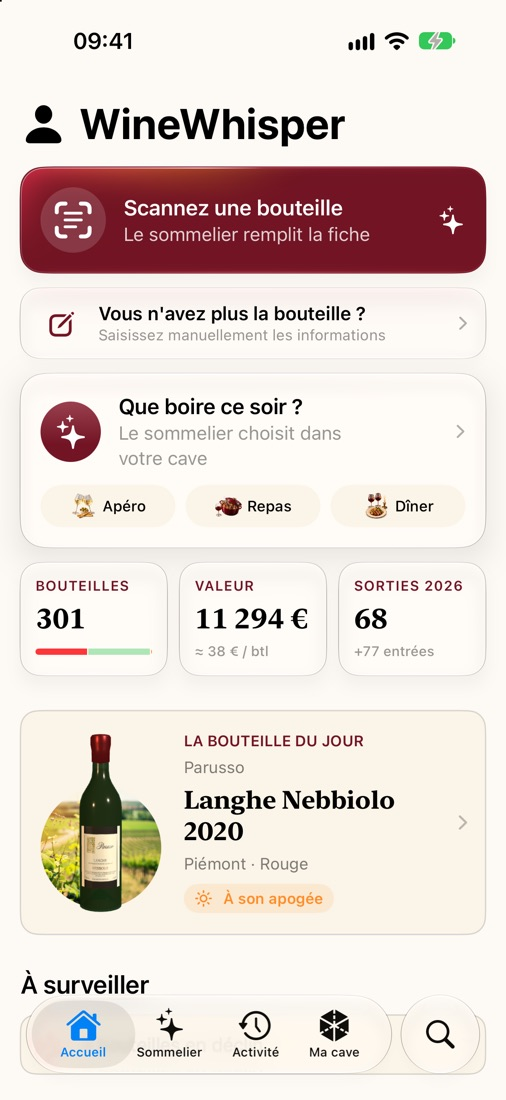
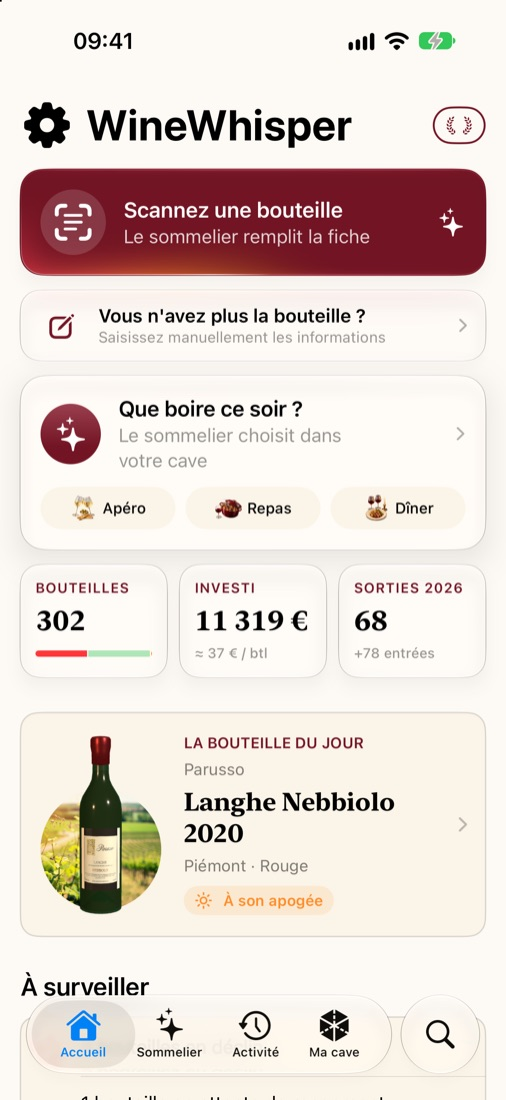
Add files via upload

diff --git a/index.html b/index.html
@@ -186,28 +186,6 @@
     .points strong { display: block; }
     .points span { color: var(--muted); }
 
-    /* Illustration de la cave : un emplacement s'allume. */
-    .rack {
-        display: grid;
-        grid-template-columns: repeat(9, 1fr);
-        gap: 7px;
-        max-width: 300px;
-        margin: 36px 0 0;
-        padding: 16px;
-        border-radius: 16px;
-        background: var(--surface);
-        border: 1px solid var(--line);
-    }
-    .rack i {
-        aspect-ratio: 1;
-        border-radius: 50%;
-        background: radial-gradient(circle at 35% 30%, #8a3646, #3d0d16);
-    }
-    .rack i.white { background: radial-gradient(circle at 35% 30%, #e8d9a0, #9c8a4a); }
-    .rack i.empty { background: transparent; border: 1px dashed var(--line); }
-    .rack i.lit { box-shadow: 0 0 0 3px var(--background), 0 0 0 5px var(--accent); animation: pulse 2.4s ease-in-out infinite; }
-    @keyframes pulse { 50% { box-shadow: 0 0 0 3px var(--background), 0 0 0 5px var(--accent), 0 0 22px 6px var(--accent); } }
-
     /* Sommelier : les occasions */
     .sommelier-head { text-align: center; max-width: 720px; margin: 0 auto 56px; }
     .occasions { display: grid; grid-template-columns: repeat(6, 1fr); gap: 16px; margin-bottom: 72px; }
@@ -272,6 +250,51 @@
     .phones.guide figcaption { margin-top: 14px; font-size: 0.9em; color: var(--muted); font-weight: 600; }
     .path { font-size: 0.9em; color: var(--text); font-weight: 600; }
 
+    /* Grand Cru : pastille sur les fonctions réservées, comparatif et prix. */
+    .tag {
+        display: inline-block;
+        margin-left: 6px;
+        padding: 2px 9px;
+        border-radius: 999px;
+        border: 1px solid var(--accent);
+        color: var(--accent);
+        font: 600 0.68em/1.5 var(--sans);
+        letter-spacing: 0.08em;
+        text-transform: uppercase;
+        vertical-align: 0.15em;
+    }
+    /* Deux offres, puis la capture de l'écran Grand Cru ; elle passe dessous quand la place manque. */
+    .offers { display: grid; grid-template-columns: 1fr 1fr 280px; gap: 24px; margin-top: 48px; }
+    .offers .phone { width: 100%; align-self: center; }
+    @media (max-width: 900px) {
+        .offers { grid-template-columns: 1fr 1fr; }
+        .offers .phone { grid-column: 1 / -1; width: min(280px, 100%); margin-top: 24px; }
+    }
+    .offer {
+        background: var(--surface);
+        border: 1px solid var(--line);
+        border-radius: 24px;
+        padding: 32px 30px;
+    }
+    .offer.premium { border: 2px solid var(--accent); box-shadow: var(--shadow); }
+    .offer h3 { font-size: 1.5em; }
+    .offer .price { color: var(--muted); margin: 0 0 22px; }
+    .offer .points { margin-top: 0; gap: 14px; }
+    .laurel { display: flex; align-items: center; gap: 8px; color: var(--accent); }
+    .laurel small { font: 600 0.62em/1 var(--sans); letter-spacing: 0.18em; display: block; }
+    .plans { display: grid; grid-template-columns: repeat(3, 1fr); gap: 16px; margin-top: 24px; }
+    .plan {
+        background: var(--surface);
+        border: 1px solid var(--line);
+        border-radius: 18px;
+        padding: 20px 16px;
+        text-align: center;
+    }
+    .plan strong { display: block; font: 600 1.6em/1.2 var(--serif); margin: 4px 0; }
+    .plan span { color: var(--muted); font-size: 0.88em; }
+    .plan.best { border-color: var(--accent); }
+    .fine { color: var(--muted); font-size: 0.85em; text-align: center; max-width: 720px; margin: 28px auto 0; }
+
     /* FAQ */
     .faq { max-width: 760px; margin: 40px auto 0; }
     details { border-bottom: 1px solid var(--line); padding: 18px 0; }
@@ -292,7 +315,6 @@
     @media (prefers-reduced-motion: reduce) {
         html { scroll-behavior: auto; }
         .js .reveal { opacity: 1; transform: none; transition: none; }
-        .rack i.lit { animation: none; }
     }
 
     @media (max-width: 900px) {
@@ -304,7 +326,7 @@
         .hero { padding: 48px 0 72px; }
         .hero .wrap, .feature { grid-template-columns: 1fr; gap: 48px; }
         .feature.reverse > :first-child { order: 0; }
-        .cards { grid-template-columns: 1fr; }
+        .cards, .offers, .plans { grid-template-columns: 1fr; }
         .phones { gap: 14px; }
         .phones .phone { border-radius: 30px; padding: 7px; }
         .phones .phone .screen { border-radius: 24px; }
@@ -325,6 +347,7 @@
             <li><a href="#cave">Cave 3D</a></li>
             <li><a href="#sommelier">Sommelier</a></li>
             <li><a href="#scan">Scan</a></li>
+            <li><a href="#grand-cru">Grand Cru</a></li>
             <li><a href="#prise-en-main">Prise en main</a></li>
             <li><a href="#faq">Questions</a></li>
         </ul>
@@ -346,7 +369,7 @@
                         <svg viewBox="0 0 24 24" aria-hidden="true"><path d="M16.4 12.6c0-2.6 2.1-3.8 2.2-3.9-1.2-1.8-3.1-2-3.8-2-1.6-.2-3.1.9-3.9.9-.8 0-2-.9-3.4-.9-1.7 0-3.3 1-4.2 2.6-1.8 3.1-.5 7.7 1.3 10.2.9 1.2 1.9 2.6 3.2 2.6 1.3-.1 1.8-.8 3.3-.8s2 .8 3.4.8c1.4 0 2.3-1.3 3.1-2.5 1-1.4 1.4-2.8 1.4-2.9 0 0-2.6-1-2.6-4.1zM13.9 4.9c.7-.9 1.2-2 1.1-3.2-1 0-2.3.7-3 1.6-.7.8-1.2 2-1.1 3.1 1.1.1 2.3-.6 3-1.5z"/></svg>
                         Bientôt sur l'App Store
                     </span>
-                    <small>iPhone · iOS 27 · Sans compte, sans publicité</small>
+                    <small>iPhone · iOS 27 · Gratuit, sans compte, sans publicité · <a href="#grand-cru">Grand Cru</a> en option</small>
                 </div>
             </div>
             <div class="reveal">
@@ -370,13 +393,8 @@
                 <ul class="points">
                     <li><strong>Retrouvez une bouteille en un geste.</strong><span>Depuis la fiche d'un vin, touchez « Voir dans la cave » : son emplacement s'allume.</span></li>
                     <li><strong>Rangez sans réfléchir.</strong><span>Les nouvelles bouteilles attendent dans un sas. WineWhisper propose la meilleure place, à côté du même millésime, du même vin ou du même domaine, et vous la posez d'un toucher.</span></li>
-                    <li><strong>Plusieurs caves.</strong><span>Une cave de service, une cave de garde, un casier chez des amis : chacune a sa forme et son contenu.</span></li>
+                    <li><strong>Plusieurs caves.<span class="tag">Grand Cru</span></strong><span>Une cave de service, une cave de garde, un casier chez des amis : chacune a sa forme et son contenu. La version gratuite range jusqu'à 24 bouteilles dans une cave.</span></li>
                 </ul>
-                <div class="rack" aria-hidden="true">
-                    <i></i><i></i><i class="white"></i><i></i><i></i><i class="white"></i><i></i><i></i><i></i>
-                    <i class="white"></i><i></i><i></i><i></i><i class="lit"></i><i></i><i class="white"></i><i></i><i class="empty"></i>
-                    <i></i><i class="white"></i><i></i><i class="empty"></i><i></i><i></i><i class="empty"></i><i class="empty"></i><i class="empty"></i>
-                </div>
             </div>
             <div class="phones reveal">
                 <div class="phone">
@@ -495,7 +513,7 @@
                 <h2>Votre cave en un coup d'œil</h2>
                 <ul class="points">
                     <li><strong>Analyse</strong><span>La répartition par couleur, par région et par phase de garde.</span></li>
-                    <li><strong>Finances</strong><span>La valeur de la cave au prix d'achat, et celle des bouteilles à ouvrir avant qu'elles perdent leur intérêt. La fiabilité du chiffre est indiquée.</span></li>
+                    <li><strong>Finances<span class="tag">Grand Cru</span></strong><span>Le montant investi et vos achats mois par mois, d'après vos prix d'achat, et la valeur des bouteilles à ouvrir avant qu'elles perdent leur intérêt. La fiabilité du chiffre est indiquée.</span></li>
                     <li><strong>Activité</strong><span>Les entrées et les sorties, mois après mois, et l'historique de chaque bouteille.</span></li>
                 </ul>
             </div>
@@ -617,8 +635,54 @@
         </div>
     </section>
 
+    <!-- Grand Cru -->
+    <section id="grand-cru" class="alt">
+        <div class="wrap">
+            <div class="center reveal">
+                <p class="eyebrow">WineWhisper Grand Cru</p>
+                <h2>Le sommelier et la cave 3D, sans limite</h2>
+                <p class="lead">WineWhisper est gratuit, et votre liste de vins n'a pas de limite. Grand Cru lève les plafonds de l'IA et de la cave 3D.</p>
+            </div>
+            <div class="offers reveal">
+                <div class="offer">
+                    <h3>Gratuit</h3>
+                    <p class="price">Pour découvrir, et pour toujours</p>
+                    <ul class="points">
+                        <li><strong>Une liste de vins illimitée</strong><span>Fiches, saisie manuelle complète (cépages, garde, prix, notes), historique et statistiques.</span></li>
+                        <li><strong>10 scans d'étiquette offerts</strong><span>L'IA identifie le vin et remplit sa fiche. Un scan raté n'est pas décompté.</span></li>
+                        <li><strong>Le Sommelier : 5 recherches offertes</strong><span>Puis 2 recherches par mois.</span></li>
+                        <li><strong>Une cave 3D</strong><span>Jusqu'à 24 bouteilles rangées, la taille d'une petite cave électrique.</span></li>
+                        <li><strong>Sauvegarde et restauration</strong><span>Toujours gratuites.</span></li>
+                    </ul>
+                </div>
+                <div class="offer premium">
+                    <h3 class="laurel"><span><small>WINEWHISPER</small>Grand Cru</span></h3>
+                    <p class="price">Tout le gratuit, et en plus :</p>
+                    <ul class="points">
+                        <li><strong>Scans illimités</strong><span>L'IA identifie chaque vin et remplit sa fiche : garde, cépages, accords.</span></li>
+                        <li><strong>Sommelier illimité</strong><span>La bonne bouteille pour chaque occasion, avec ou sans plat.</span></li>
+                        <li><strong>Toutes vos caves en 3D</strong><span>Rangez toutes vos bouteilles, dans autant de caves que vous le souhaitez.</span></li>
+                        <li><strong>Finances de la cave</strong><span>Le montant investi et vos achats mois par mois, d'après vos prix d'achat.</span></li>
+                    </ul>
+                </div>
+                <div class="phone">
+                    <div class="screen">
+                        <div class="placeholder">L'offre Grand Cru dans l'app</div>
+                        <img src="images/c14-grand-cru.jpg" alt="L'écran Grand Cru : les quatre avantages et les formules annuelle, mensuelle et à vie" onerror="this.remove()" loading="lazy">
+                    </div>
+                </div>
+            </div>
+            <div class="plans reveal">
+                <div class="plan"><span>Mensuel</span><strong>3,99 €</strong><span>par mois, sans engagement</span></div>
+                <div class="plan best"><span>Annuel · −27 %</span><strong>34,99 €</strong><span>par an, soit 2,92 € par mois</span></div>
+                <div class="plan"><span>À vie</span><strong>79,99 €</strong><span>une seule fois, sans abonnement</span></div>
+            </div>
+            <p class="fine">Prix en France, TVA comprise. Abonnements renouvelés automatiquement, résiliables à tout moment dans les réglages de l'App Store, au plus tard 24 heures avant l'échéance. Vos vins restent sur votre iPhone, avec ou sans Grand Cru.</p>
+        </div>
+    </section>
+
     <!-- FAQ -->
-    <section id="faq" class="alt">
+    <section id="faq">
         <div class="wrap">
             <div class="center reveal">
                 <p class="eyebrow">Questions fréquentes</p>
@@ -628,6 +692,18 @@
                 <details>
                     <summary>Faut-il un compte ?</summary>
                     <p>Non. WineWhisper fonctionne sans compte et sans inscription.</p>
+                </details>
+                <details>
+                    <summary>WineWhisper est-il gratuit ?</summary>
+                    <p>Oui. La liste de vins, les fiches, la saisie manuelle, la garde, les statistiques et la sauvegarde sont gratuites et sans limite. Le scan, le Sommelier et la cave 3D ont une part offerte ; Grand Cru les rend illimités.</p>
+                </details>
+                <details>
+                    <summary>Que se passe-t-il si j'arrête Grand Cru ?</summary>
+                    <p>Rien n'est supprimé ni caché. Les fiches déjà remplies le restent, et vos caves restent visibles en 3D : vous pouvez toujours y retrouver une bouteille et la sortir. Seul le rangement de nouvelles bouteilles revient à la limite gratuite.</p>
+                </details>
+                <details>
+                    <summary>J'ai déjà payé sur un autre iPhone.</summary>
+                    <p>Dans l'écran Grand Cru, touchez « Restaurer les achats » avec le même compte App Store.</p>
                 </details>
                 <details>
                     <summary>L'application fonctionne-t-elle sans connexion ?</summary>
